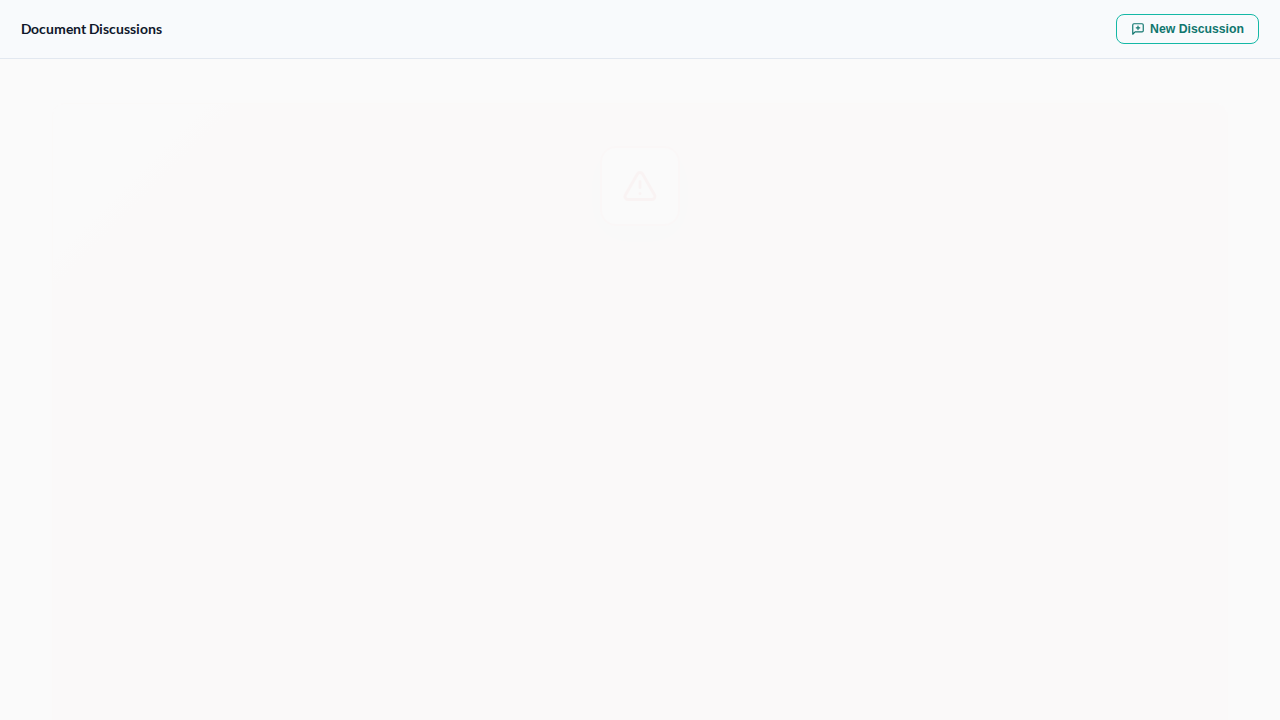
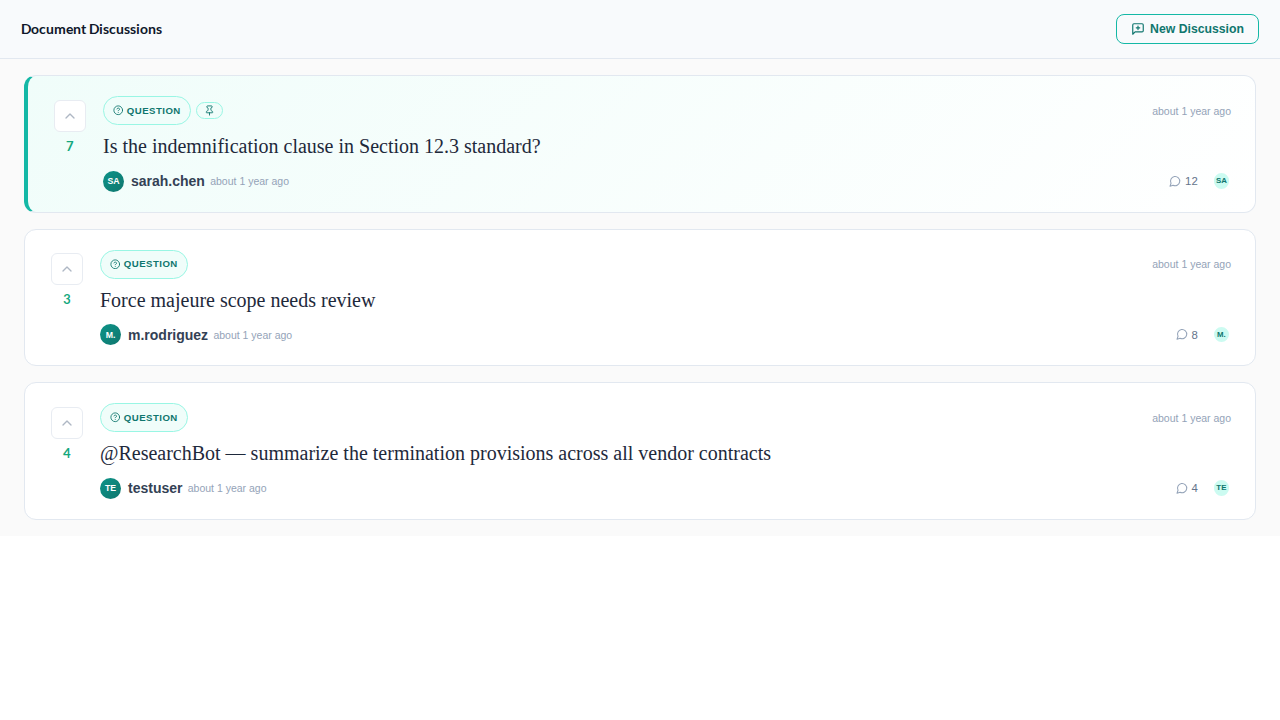
Fix discussions screenshot: correct mock variables and add rich thread data
The mock had React props (onThreadClick, embedded) as GraphQL variables,
so the query never matched and the screenshot was empty. Fix variables
to match actual ThreadList query (documentId, conversationType, limit)
and add three realistic threads with upvotes, pinned state, different
authors, and an @ResearchBot mention.

diff --git a/frontend/tests/DocumentDiscussionsContent.ct.tsx b/frontend/tests/DocumentDiscussionsContent.ct.tsx
@@ -8,52 +8,121 @@ import { selectedThreadId } from "../src/graphql/cache";
 import { DocumentDiscussionsContentTestWrapper } from "./DocumentDiscussionsContentTestWrapper";
 import { docScreenshot, releaseScreenshot } from "./utils/docScreenshot";
 
-// Mock thread data
+// Helper to build a mock thread node
+const mockThread = (
+  id: string,
+  title: string,
+  description: string,
+  overrides?: Record<string, unknown>
+) => ({
+  __typename: "ConversationTypeEdge" as const,
+  node: {
+    __typename: "ConversationType" as const,
+    id,
+    conversationType: "THREAD",
+    title,
+    description,
+    createdAt: "2025-01-15T10:00:00Z",
+    updatedAt: "2025-01-16T15:30:00Z",
+    creator: {
+      __typename: "UserType" as const,
+      id: "user-1",
+      username: "testuser",
+      email: "test@example.com",
+    },
+    chatWithCorpus: {
+      __typename: "CorpusType" as const,
+      id: "corpus-1",
+      title: "Test Corpus",
+    },
+    chatWithDocument: {
+      __typename: "DocumentType" as const,
+      id: "doc-1",
+      title: "Test Document",
+    },
+    chatMessages: {
+      __typename: "ChatMessageTypeConnection" as const,
+      totalCount: 5,
+    },
+    isPublic: true,
+    myPermissions: ["read", "create", "update"],
+    isLocked: false,
+    lockedBy: null,
+    lockedAt: null,
+    isPinned: false,
+    pinnedBy: null,
+    pinnedAt: null,
+    deletedAt: null,
+    upvoteCount: 0,
+    downvoteCount: 0,
+    userVote: null,
+    ...overrides,
+  },
+});
+
+// Mock thread data — multiple threads for a richer screenshot
 const mockThreads = {
   conversations: {
     __typename: "ConversationTypeConnection",
     edges: [
-      {
-        __typename: "ConversationTypeEdge",
-        node: {
-          __typename: "ConversationType",
-          id: "thread-1",
-          conversationType: "THREAD",
-          title: "Test Discussion Thread",
-          description: "A test thread for discussions",
-          createdAt: "2025-01-01T10:00:00Z",
-          updatedAt: "2025-01-02T15:30:00Z",
-          creator: {
+      mockThread(
+        "thread-1",
+        "Is the indemnification clause in Section 12.3 standard?",
+        "Comparing this against the ISDA master template — the carve-outs seem broader than usual.",
+        {
+          isPinned: true,
+          pinnedBy: {
             __typename: "UserType",
             id: "user-1",
             username: "testuser",
-            email: "test@example.com",
           },
-          chatWithCorpus: {
-            __typename: "CorpusType",
-            id: "corpus-1",
-            title: "Test Corpus",
-          },
-          chatWithDocument: {
-            __typename: "DocumentType",
-            id: "doc-1",
-            title: "Test Document",
-          },
+          pinnedAt: "2025-01-16T12:00:00Z",
+          upvoteCount: 7,
           chatMessages: {
             __typename: "ChatMessageTypeConnection",
-            totalCount: 5,
+            totalCount: 12,
           },
-          isPublic: true,
-          myPermissions: ["read", "create", "update"],
-          isLocked: false,
-          lockedBy: null,
-          lockedAt: null,
-          isPinned: false,
-          pinnedBy: null,
-          pinnedAt: null,
-          deletedAt: null,
-        },
-      },
+          creator: {
+            __typename: "UserType",
+            id: "user-2",
+            username: "sarah.chen",
+            email: "sarah@example.com",
+          },
+        }
+      ),
+      mockThread(
+        "thread-2",
+        "Force majeure scope needs review",
+        "The pandemic language was added in the 2021 amendment but conflicts with the original limitation period.",
+        {
+          upvoteCount: 3,
+          chatMessages: {
+            __typename: "ChatMessageTypeConnection",
+            totalCount: 8,
+          },
+          creator: {
+            __typename: "UserType",
+            id: "user-3",
+            username: "m.rodriguez",
+            email: "mrod@example.com",
+          },
+          createdAt: "2025-01-14T09:00:00Z",
+        }
+      ),
+      mockThread(
+        "thread-3",
+        "@ResearchBot — summarize the termination provisions across all vendor contracts",
+        "Let's see how termination-for-convenience compares across the portfolio.",
+        {
+          upvoteCount: 5,
+          downvoteCount: 1,
+          chatMessages: {
+            __typename: "ChatMessageTypeConnection",
+            totalCount: 4,
+          },
+          createdAt: "2025-01-13T14:00:00Z",
+        }
+      ),
     ],
     pageInfo: {
       __typename: "PageInfo",
@@ -62,7 +131,7 @@ const mockThreads = {
       startCursor: "",
       endCursor: "",
     },
-    totalCount: 1,
+    totalCount: 3,
   },
 };
 
@@ -99,8 +168,7 @@ test.describe("DocumentDiscussionsContent", () => {
           variables: {
             documentId: "doc-1",
             conversationType: "THREAD",
-            onThreadClick: expect.any(Function),
-            embedded: true,
+            limit: 20,
           },
         },
         result: { data: mockThreads },
@@ -121,6 +189,9 @@ test.describe("DocumentDiscussionsContent", () => {
       name: /start new discussion/i,
     });
     await expect(createButton).toBeVisible();
+
+    // Wait for thread cards to render
+    await expect(page.getByText("indemnification clause")).toBeVisible();
 
     await docScreenshot(page, "discussions--thread-list--with-threads");
     await releaseScreenshot(page, "v3.0.0.b3", "discussion-thread");
